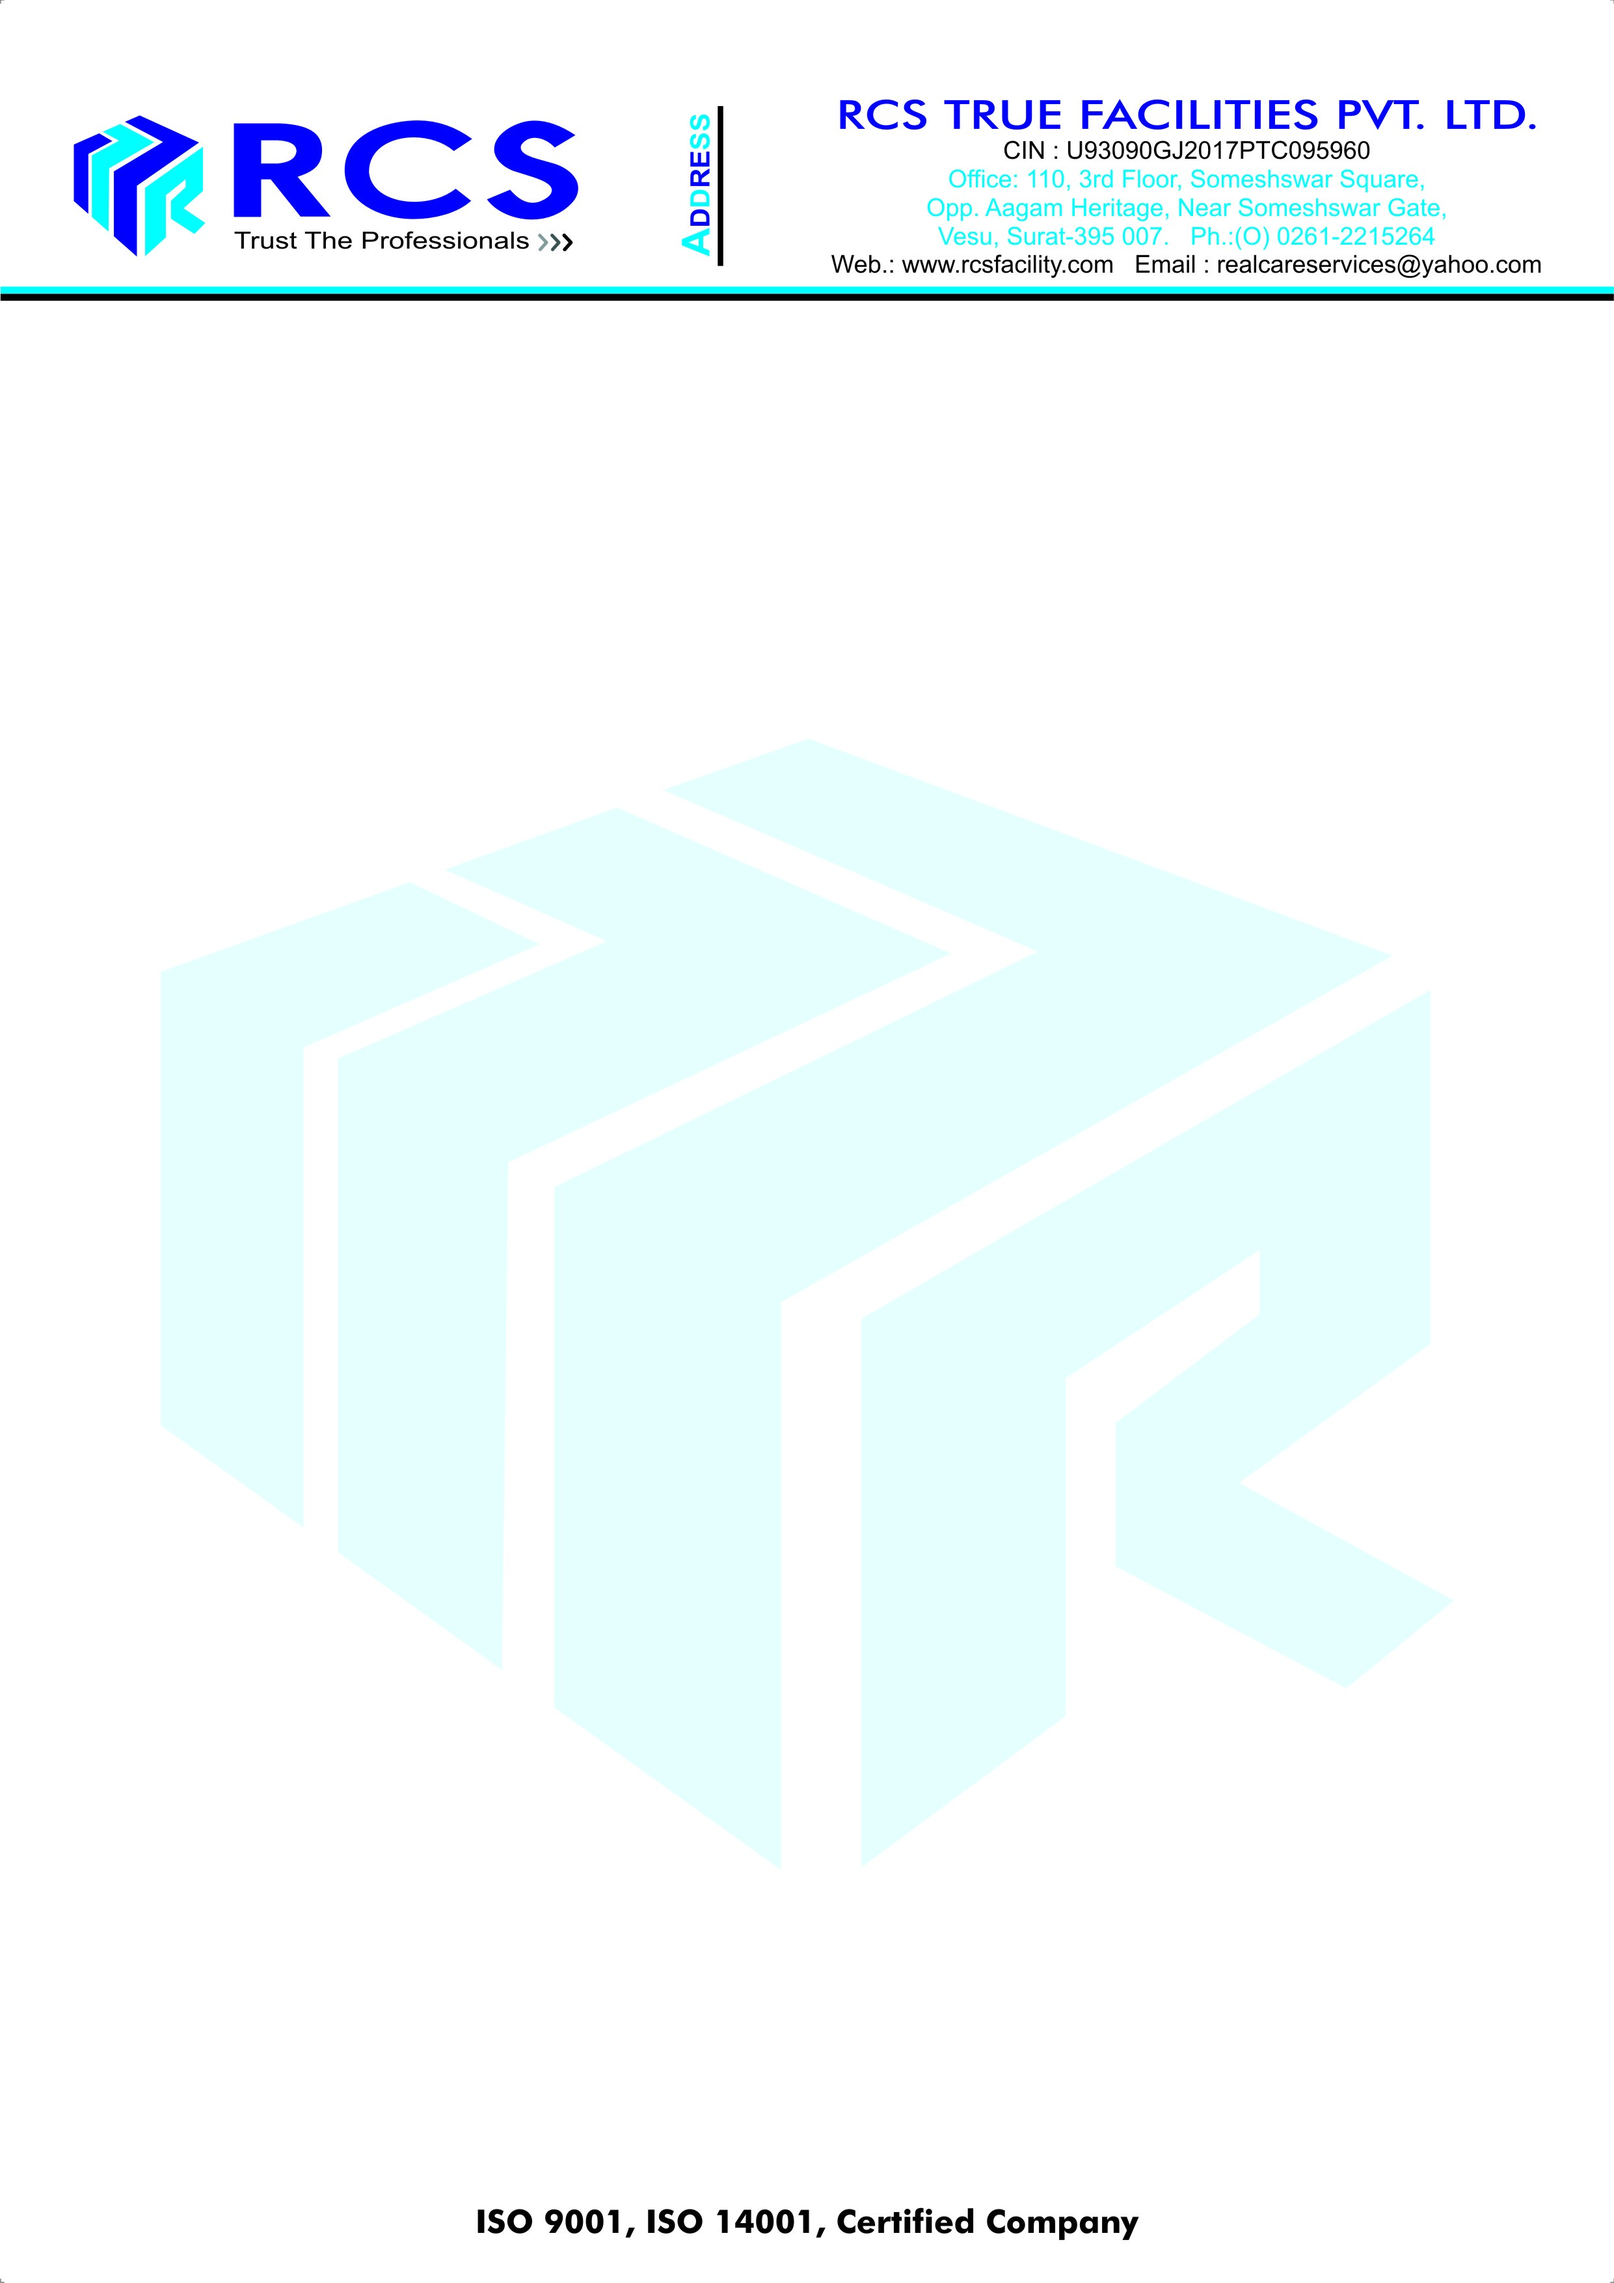
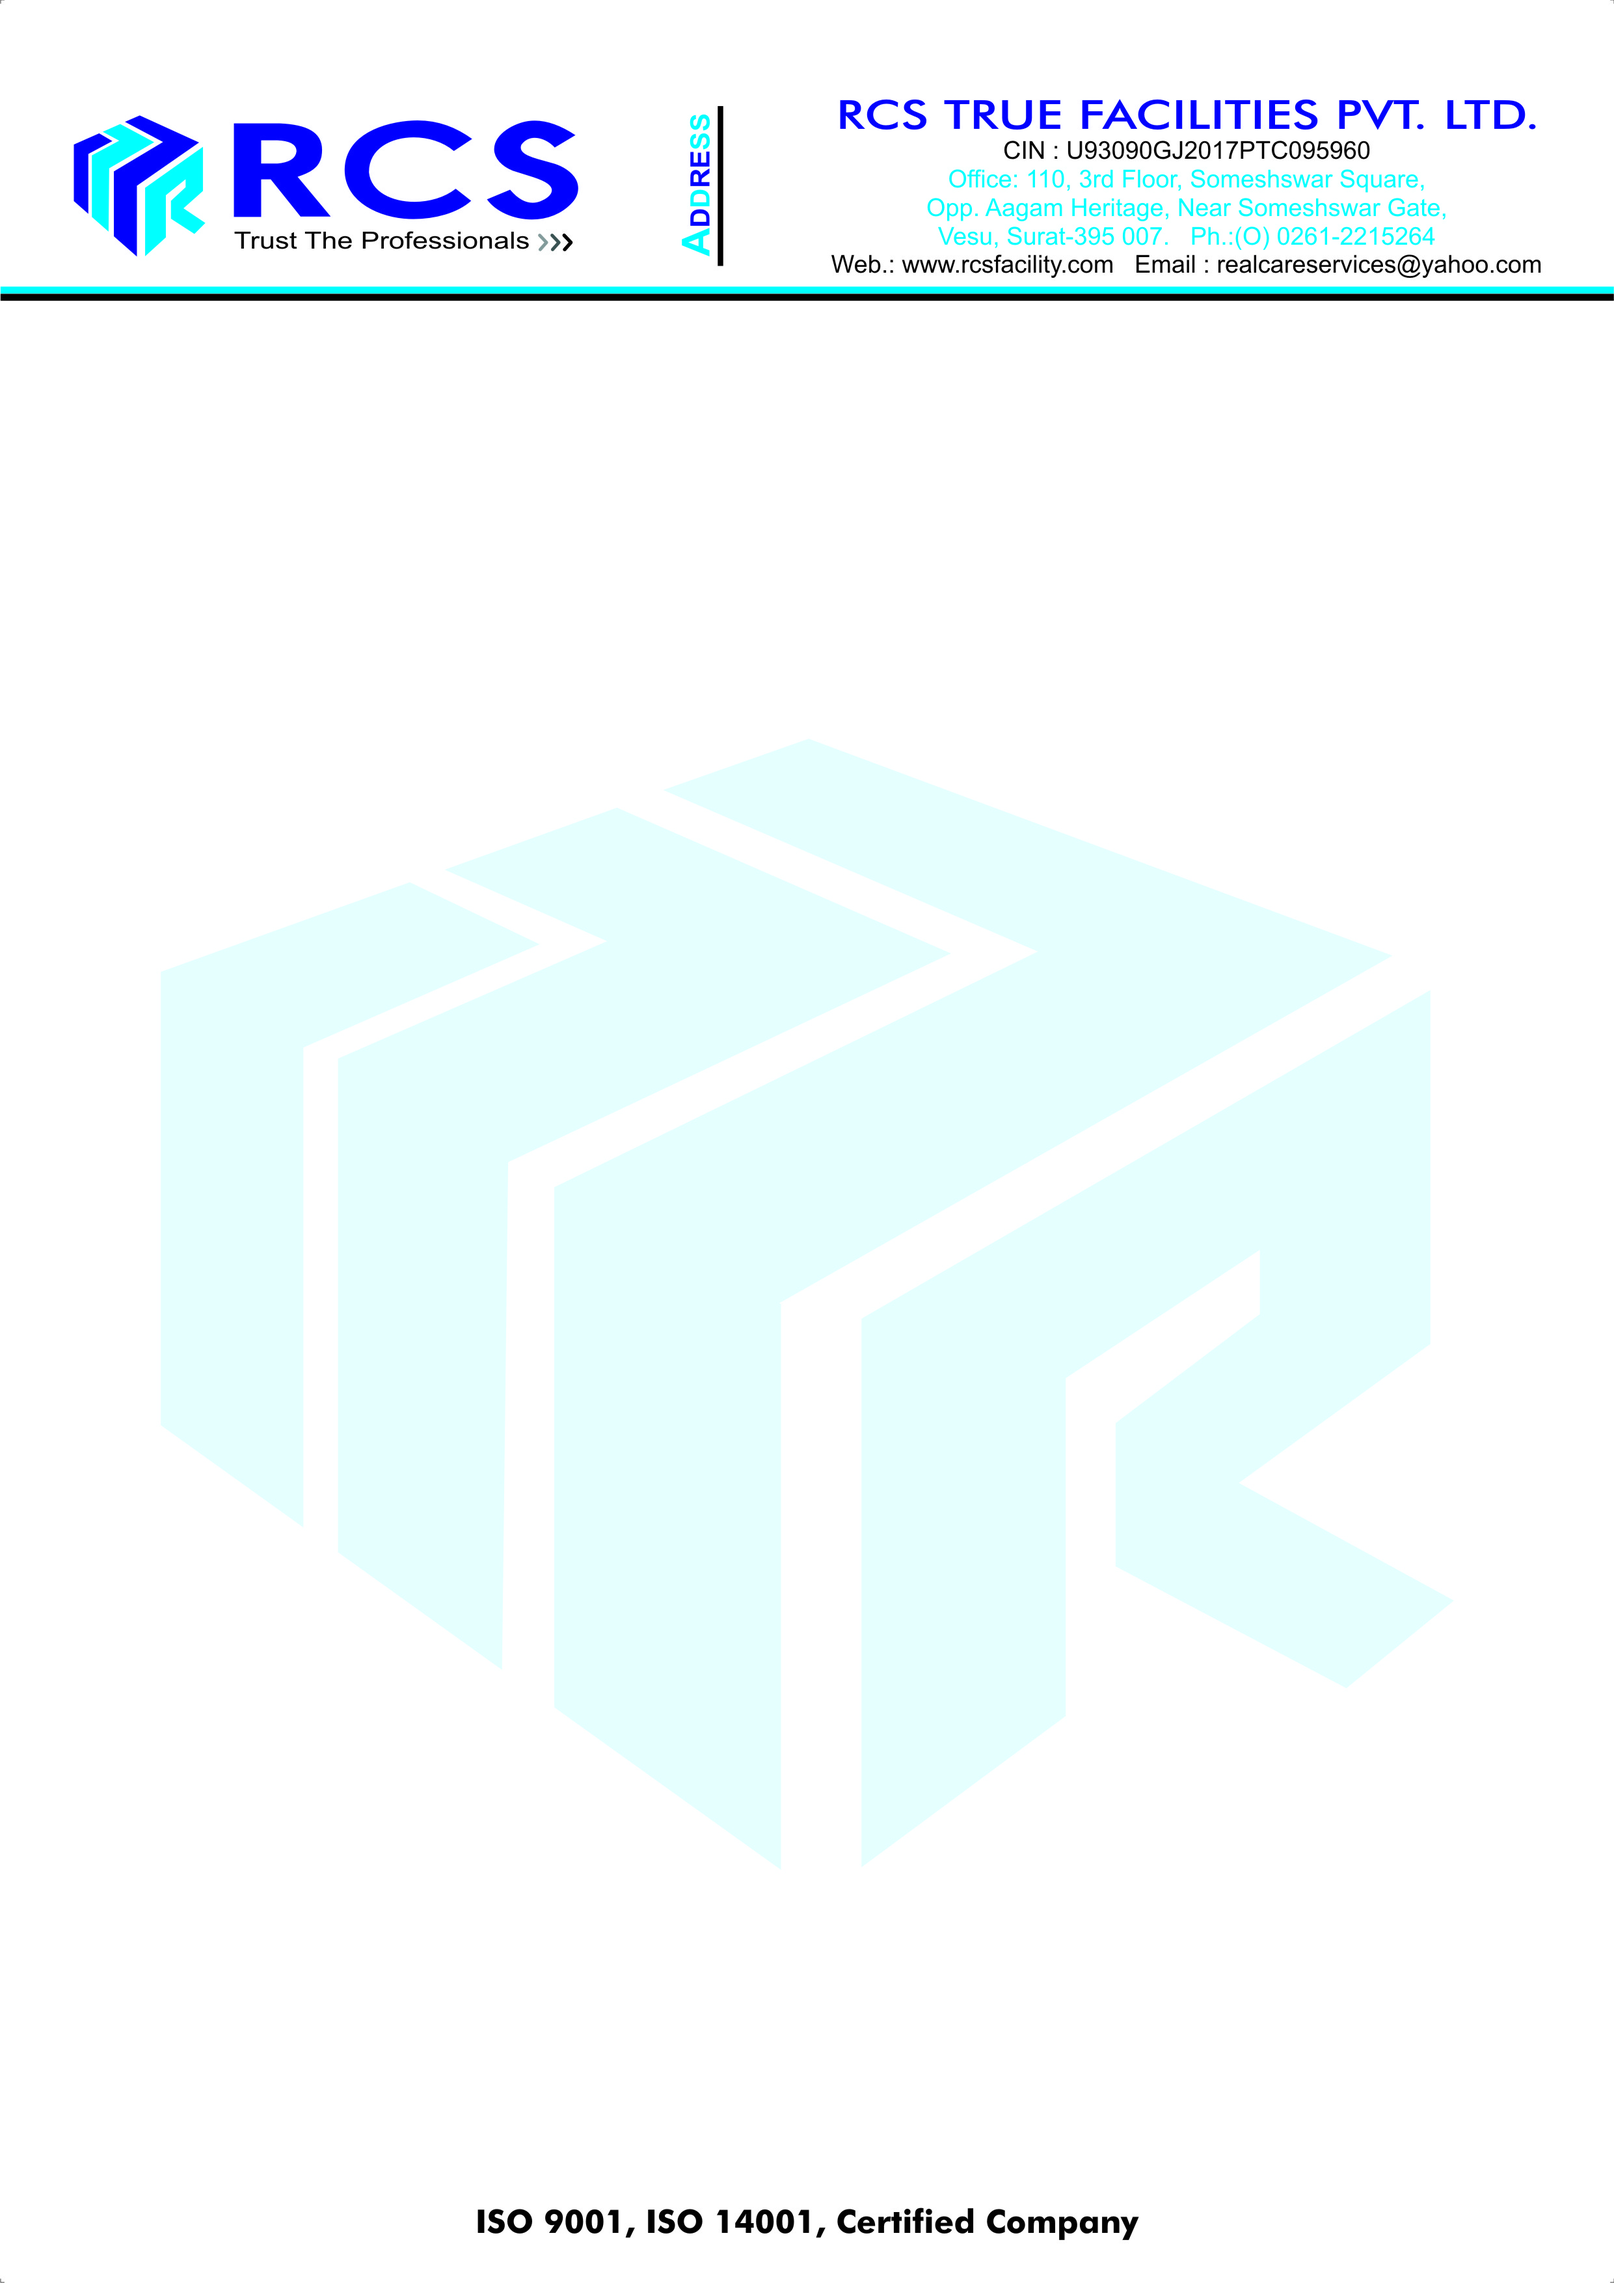
fix: PNG letterhead for color accuracy + Certificates quick action with NEW badge
- Switch from JPEG to PNG (lossless) to fix CMYK→RGB color shift
- Add 'Certificates' with Award icon in home page Quick Actions
- Blinking red 'NEW' badge next to Certificates label
- Upload letterhead-a4.png to production server root

Changed region(s): [[0.5897, 0.0621, 0.869, 0.1243]]

diff --git a/RCS_ESS/src/components/ess/DashboardHome.tsx b/RCS_ESS/src/components/ess/DashboardHome.tsx
@@ -24,6 +24,7 @@ import {
   MapPin,
   Loader2,
   TableProperties,
+  Award,
 } from 'lucide-react';
 
 // ══════════════════════════════════════════════════════════════
@@ -83,6 +84,7 @@ export default function DashboardHome({
     { key: 'leaves', label: 'Leave', icon: CalendarDays, color: 'text-amber-600', bg: 'bg-amber-50' },
     { key: 'expenses', label: 'Expenses', icon: Receipt, color: 'text-emerald-600', bg: 'bg-emerald-50' },
     { key: 'tasks', label: 'Tasks', icon: ClipboardList, color: 'text-violet-600', bg: 'bg-violet-50' },
+    { key: 'certificates', label: 'Certificates', icon: Award, color: 'text-purple-600', bg: 'bg-purple-50', isNew: true },
     { key: 'announcements', label: 'Notices', icon: Megaphone, color: 'text-rose-600', bg: 'bg-rose-50' },
     { key: 'helpdesk', label: 'Help Desk', icon: CircleHelp, color: 'text-sky-600', bg: 'bg-sky-50' },
     { key: 'attendance', label: 'History', icon: Clock, color: 'text-blue-600', bg: 'bg-blue-50' },
@@ -332,7 +334,7 @@ export default function DashboardHome({
               <div className={`flex items-center justify-center w-10 h-10 rounded-full ${action.bg}`}>
                 <action.icon className={`w-5 h-5 ${action.color}`} />
               </div>
-              <span className="text-xs font-medium text-gray-700">{action.label}</span>
+              <span className="text-xs font-medium text-gray-700 flex items-center gap-1">{action.label}{'isNew' in action && action.isNew && <span className="inline-block text-[9px] font-bold text-red-500 animate-pulse">NEW</span>}</span>
             </button>
           ))}
         </div>

diff --git a/RCS_ESS/src/lib/pdf/generateCertificatePDF.ts b/RCS_ESS/src/lib/pdf/generateCertificatePDF.ts
@@ -6,7 +6,7 @@ import type { CertificateData } from '@/lib/ess-api';
 // Uses full A4 letterhead background image
 // ══════════════════════════════════════════════════════════════
 
-const LETTERHEAD_URL = 'https://join.rcsfacility.com/letterhead-a4.jpg';
+const LETTERHEAD_URL = 'https://join.rcsfacility.com/letterhead-a4.png';
 const VERIFY_BASE = 'https://join.rcsfacility.com/#verify?cert=';
 
 // A4 dimensions in mm
